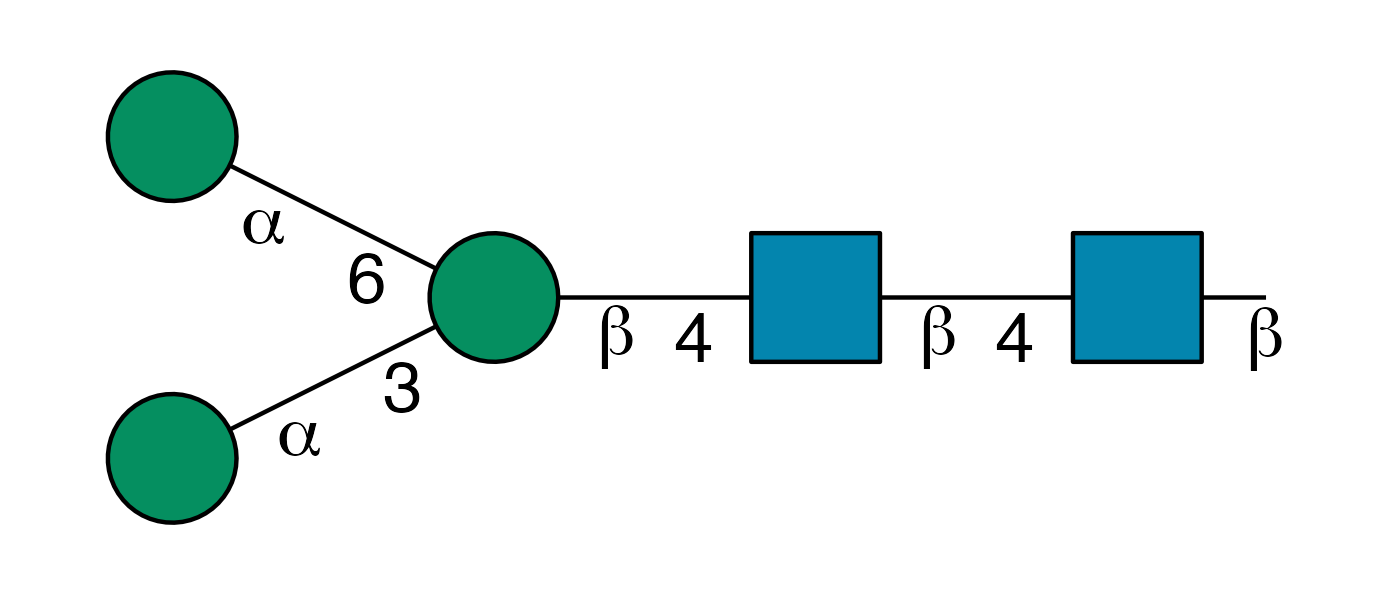
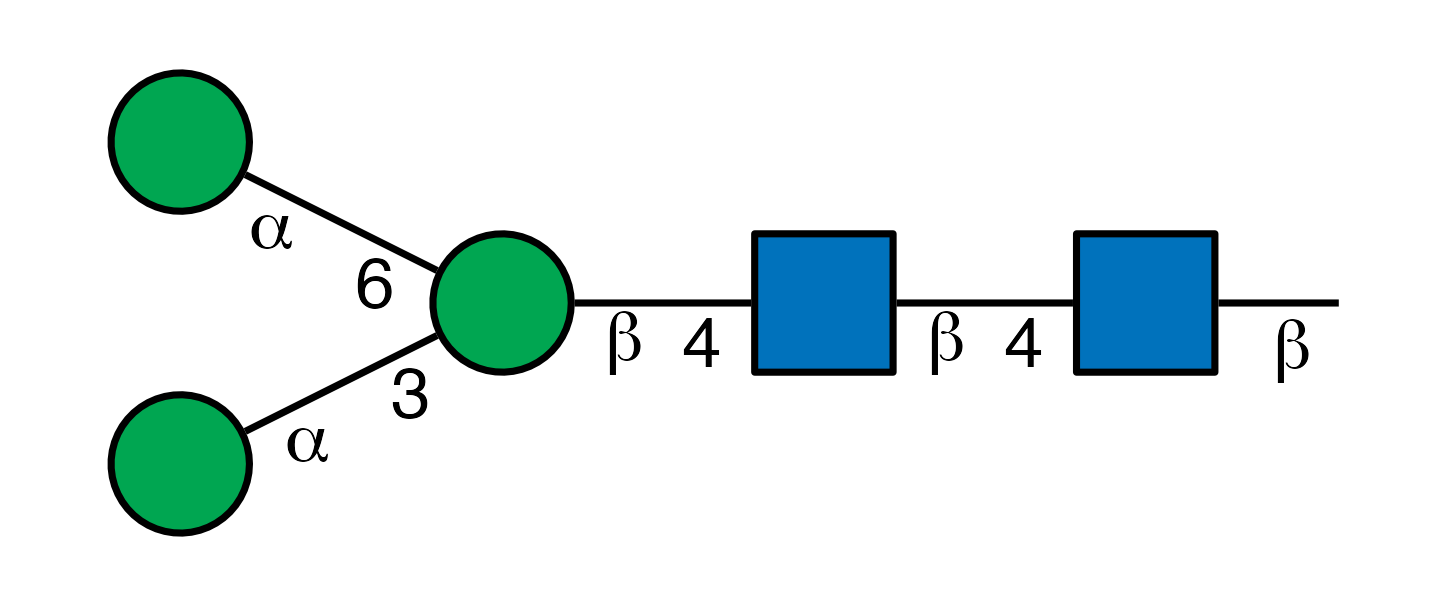
Deploying to gh-pages from @ glycoverse/glydraw@0e74a1935e1a63941513b298493a26f3a54aa303 🚀

diff --git a/news/index.html b/news/index.html
@@ -7,7 +7,7 @@
 
     <a class="navbar-brand me-2" href="../index.html">glydraw</a>
 
-    <small class="nav-text text-muted me-auto" data-bs-toggle="tooltip" data-bs-placement="bottom" title="Released version">0.5.0</small>
+    <small class="nav-text text-muted me-auto" data-bs-toggle="tooltip" data-bs-placement="bottom" title="Released version">0.5.1</small>
 
 
     <button class="navbar-toggler" type="button" data-bs-toggle="collapse" data-bs-target="#navbar" aria-controls="navbar" aria-expanded="false" aria-label="Toggle navigation">
@@ -30,6 +30,14 @@
 
     </div>
 
+    <div class="section level2">
+<h2 class="pkg-version" data-toc-text="0.5.1" id="glydraw-051">glydraw 0.5.1<a class="anchor" aria-label="anchor" href="#glydraw-051"></a></h2>
+<div class="section level3">
+<h3 id="minor-improvements-and-bug-fixes-0-5-1">Minor improvements and bug fixes<a class="anchor" aria-label="anchor" href="#minor-improvements-and-bug-fixes-0-5-1"></a></h3>
+<ul><li>Use SNFG standard colors. (8573759)</li>
+<li>Minor aesthetic adjustments to line width and node size. (427e8d0, 4466f88)</li>
+</ul></div>
+</div>
     <div class="section level2">
 <h2 class="pkg-version" data-toc-text="0.5.0" id="glydraw-050">glydraw 0.5.0<a class="anchor" aria-label="anchor" href="#glydraw-050"></a></h2>
 <div class="section level3">

diff --git a/authors.html b/authors.html
@@ -7,7 +7,7 @@
 
     <a class="navbar-brand me-2" href="index.html">glydraw</a>
 
-    <small class="nav-text text-muted me-auto" data-bs-toggle="tooltip" data-bs-placement="bottom" title="Released version">0.5.0</small>
+    <small class="nav-text text-muted me-auto" data-bs-toggle="tooltip" data-bs-placement="bottom" title="Released version">0.5.1</small>
 
 
     <button class="navbar-toggler" type="button" data-bs-toggle="collapse" data-bs-target="#navbar" aria-controls="navbar" aria-expanded="false" aria-label="Toggle navigation">
@@ -48,13 +48,13 @@
 
       <p>Fu B, Feng X (2026).
 <em>glydraw: Draw beautiful SNFG cartoons</em>.
-R package version 0.5.0, <a href="https://glycoverse.github.io/glydraw/">https://glycoverse.github.io/glydraw/</a>.
+R package version 0.5.1, <a href="https://glycoverse.github.io/glydraw/">https://glycoverse.github.io/glydraw/</a>.
 </p>
       <pre>@Manual{,
   title = {glydraw: Draw beautiful SNFG cartoons},
   author = {Bin Fu and Xisong Feng},
   year = {2026},
-  note = {R package version 0.5.0},
+  note = {R package version 0.5.1},
   url = {https://glycoverse.github.io/glydraw/},
 }</pre>
     </div>

diff --git a/404.html b/404.html
@@ -21,7 +21,7 @@
 
     <a class="navbar-brand me-2" href="https://glycoverse.github.io/glydraw/index.html">glydraw</a>
 
-    <small class="nav-text text-muted me-auto" data-bs-toggle="tooltip" data-bs-placement="bottom" title="Released version">0.5.0</small>
+    <small class="nav-text text-muted me-auto" data-bs-toggle="tooltip" data-bs-placement="bottom" title="Released version">0.5.1</small>
 
 
     <button class="navbar-toggler" type="button" data-bs-toggle="collapse" data-bs-target="#navbar" aria-controls="navbar" aria-expanded="false" aria-label="Toggle navigation">

diff --git a/CODE_OF_CONDUCT.html b/CODE_OF_CONDUCT.html
@@ -7,7 +7,7 @@
 
     <a class="navbar-brand me-2" href="index.html">glydraw</a>
 
-    <small class="nav-text text-muted me-auto" data-bs-toggle="tooltip" data-bs-placement="bottom" title="Released version">0.5.0</small>
+    <small class="nav-text text-muted me-auto" data-bs-toggle="tooltip" data-bs-placement="bottom" title="Released version">0.5.1</small>
 
 
     <button class="navbar-toggler" type="button" data-bs-toggle="collapse" data-bs-target="#navbar" aria-controls="navbar" aria-expanded="false" aria-label="Toggle navigation">

diff --git a/CONTRIBUTING.html b/CONTRIBUTING.html
@@ -7,7 +7,7 @@
 
     <a class="navbar-brand me-2" href="index.html">glydraw</a>
 
-    <small class="nav-text text-muted me-auto" data-bs-toggle="tooltip" data-bs-placement="bottom" title="Released version">0.5.0</small>
+    <small class="nav-text text-muted me-auto" data-bs-toggle="tooltip" data-bs-placement="bottom" title="Released version">0.5.1</small>
 
 
     <button class="navbar-toggler" type="button" data-bs-toggle="collapse" data-bs-target="#navbar" aria-controls="navbar" aria-expanded="false" aria-label="Toggle navigation">

diff --git a/LICENSE-text.html b/LICENSE-text.html
@@ -7,7 +7,7 @@
 
     <a class="navbar-brand me-2" href="index.html">glydraw</a>
 
-    <small class="nav-text text-muted me-auto" data-bs-toggle="tooltip" data-bs-placement="bottom" title="Released version">0.5.0</small>
+    <small class="nav-text text-muted me-auto" data-bs-toggle="tooltip" data-bs-placement="bottom" title="Released version">0.5.1</small>
 
 
     <button class="navbar-toggler" type="button" data-bs-toggle="collapse" data-bs-target="#navbar" aria-controls="navbar" aria-expanded="false" aria-label="Toggle navigation">

diff --git a/LICENSE.html b/LICENSE.html
@@ -7,7 +7,7 @@
 
     <a class="navbar-brand me-2" href="index.html">glydraw</a>
 
-    <small class="nav-text text-muted me-auto" data-bs-toggle="tooltip" data-bs-placement="bottom" title="Released version">0.5.0</small>
+    <small class="nav-text text-muted me-auto" data-bs-toggle="tooltip" data-bs-placement="bottom" title="Released version">0.5.1</small>
 
 
     <button class="navbar-toggler" type="button" data-bs-toggle="collapse" data-bs-target="#navbar" aria-controls="navbar" aria-expanded="false" aria-label="Toggle navigation">

diff --git a/SUPPORT.html b/SUPPORT.html
@@ -7,7 +7,7 @@
 
     <a class="navbar-brand me-2" href="index.html">glydraw</a>
 
-    <small class="nav-text text-muted me-auto" data-bs-toggle="tooltip" data-bs-placement="bottom" title="Released version">0.5.0</small>
+    <small class="nav-text text-muted me-auto" data-bs-toggle="tooltip" data-bs-placement="bottom" title="Released version">0.5.1</small>
 
 
     <button class="navbar-toggler" type="button" data-bs-toggle="collapse" data-bs-target="#navbar" aria-controls="navbar" aria-expanded="false" aria-label="Toggle navigation">

diff --git a/index.html b/index.html
@@ -23,7 +23,7 @@
 
     <a class="navbar-brand me-2" href="index.html">glydraw</a>
 
-    <small class="nav-text text-muted me-auto" data-bs-toggle="tooltip" data-bs-placement="bottom" title="Released version">0.5.0</small>
+    <small class="nav-text text-muted me-auto" data-bs-toggle="tooltip" data-bs-placement="bottom" title="Released version">0.5.1</small>
 
 
     <button class="navbar-toggler" type="button" data-bs-toggle="collapse" data-bs-target="#navbar" aria-controls="navbar" aria-expanded="false" aria-label="Toggle navigation">

diff --git a/reference/draw_cartoon.html b/reference/draw_cartoon.html
@@ -7,7 +7,7 @@
 
     <a class="navbar-brand me-2" href="../index.html">glydraw</a>
 
-    <small class="nav-text text-muted me-auto" data-bs-toggle="tooltip" data-bs-placement="bottom" title="Released version">0.5.0</small>
+    <small class="nav-text text-muted me-auto" data-bs-toggle="tooltip" data-bs-placement="bottom" title="Released version">0.5.1</small>
 
 
     <button class="navbar-toggler" type="button" data-bs-toggle="collapse" data-bs-target="#navbar" aria-controls="navbar" aria-expanded="false" aria-label="Toggle navigation">

diff --git a/reference/export_cartoons.html b/reference/export_cartoons.html
@@ -15,7 +15,7 @@ names are used as file names."><meta property="og:image" content="https://glycov
 
     <a class="navbar-brand me-2" href="../index.html">glydraw</a>
 
-    <small class="nav-text text-muted me-auto" data-bs-toggle="tooltip" data-bs-placement="bottom" title="Released version">0.5.0</small>
+    <small class="nav-text text-muted me-auto" data-bs-toggle="tooltip" data-bs-placement="bottom" title="Released version">0.5.1</small>
 
 
     <button class="navbar-toggler" type="button" data-bs-toggle="collapse" data-bs-target="#navbar" aria-controls="navbar" aria-expanded="false" aria-label="Toggle navigation">

diff --git a/reference/glydraw-package.html b/reference/glydraw-package.html
@@ -9,7 +9,7 @@ Draw beautiful SNFG cartoons."><meta property="og:image" content="https://glycov
 
     <a class="navbar-brand me-2" href="../index.html">glydraw</a>
 
-    <small class="nav-text text-muted me-auto" data-bs-toggle="tooltip" data-bs-placement="bottom" title="Released version">0.5.0</small>
+    <small class="nav-text text-muted me-auto" data-bs-toggle="tooltip" data-bs-placement="bottom" title="Released version">0.5.1</small>
 
 
     <button class="navbar-toggler" type="button" data-bs-toggle="collapse" data-bs-target="#navbar" aria-controls="navbar" aria-expanded="false" aria-label="Toggle navigation">